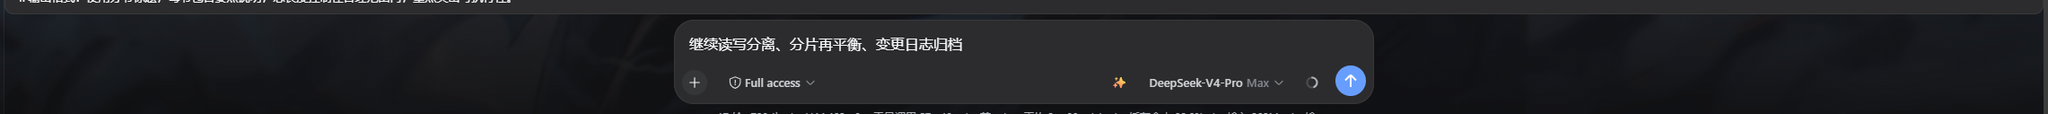
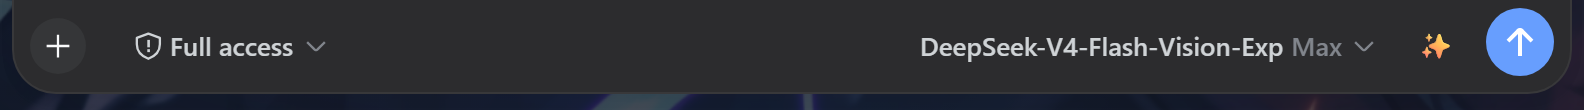
docs: regenerate effect screenshots from the current plugin run
- scripts/demo-shots.mjs: puppeteer-core automation (type draft -> click
  optimize -> capture panel -> apply) against the live GUI
- docs/assets: effect-input-row / effect-panel / optimize-panel-input /
  applied (replaced the earlier session screenshots; removed old assets)
- README + docs/juejin.md updated with the four current screenshots

diff --git a/docs/juejin.md b/docs/juejin.md
@@ -41,16 +41,16 @@
 
 ![面板与输入栏全景](assets/optimize-panel-input.png)
 
-**附:错误兜底演示**(模型未返回文本时的可读错误态)
+**图④ 点击「应用」后**(草稿被替换为优化后的提示词)
 
-![错误态演示](assets/error-state-panel.png)
+![应用后效果](assets/applied.png)
 
 **使用说明**:
 
-- 以上均为暗色主题下的**真实界面截图**(非示意图),可直接用于掘金配图;
-- 图①右侧可另加箭头高亮 ✨ 按钮;图②适合作为正文"对比效果"主图;
-- 掘金编辑器支持直接上传本地图片(发布时上传 `docs/assets/` 下文件,替换相对引用即可);
-- ⚠ 图中的草稿文本来自演示会话,含较具体的业务内容("读写分离/分片再平衡/变更日志归档"),对外发布前可将其替换为更通用的示例(如"帮我写一个周报生成工具"),或保留原样由你决定。
+- 以上均为暗色主题下、**当前版本(0.0.1/v10)的真实运行截图**,可直接用于掘金配图;
+- 演示草稿为通用示例「帮我写一个周报生成工具」,无业务敏感内容;
+- 图①右侧可另加箭头高亮 ✨ 按钮;图②③④ 建议按「面板 → 全景 → 应用后」顺序连续展示;
+- 掘金编辑器支持直接上传本地图片(上传 `docs/assets/` 下文件后替换相对引用即可)。
 
 ### 核心亮点(为什么值得用)
 

diff --git a/README.md b/README.md
@@ -20,7 +20,11 @@
 
 ![面板与输入栏全景](docs/assets/optimize-panel-input.png)
 
-> 以上为暗色主题真实界面截图(`docs/assets/`);示例草稿文本取自演示会话,你可自行替换为更通用的截图。
+**点击「应用」后**(草稿被替换为优化文本)
+
+![应用后效果](docs/assets/applied.png)
+
+> 以上为当前版本(0.0.1/v10)真实运行截图(`docs/assets/`);演示草稿为通用示例「帮我写一个周报生成工具」。截图可由 `scripts/demo-shots.mjs` 自动重新生成。
 
 ## ✨ 核心亮点
 
@@ -109,7 +113,10 @@ dsh-prompt-optimize-plugin/
 ├── docs/
 │   ├── changelog.md     # 迭代历史(pkg-1 … pkg-10 + npm 发布记录)
 │   ├── juejin.md        # 掘金平台介绍文案
-│   └── douyin-script.md # 抖音短视频脚本
+│   ├── douyin-script.md # 抖音短视频脚本
+│   └── assets/          # 效果展示图(真实运行截图)
+├── scripts/
+│   └── demo-shots.mjs   # 演示截图脚本(puppeteer-core,自动化生成 assets 效果图)
 ├── CONTRIBUTING.md      # 贡献指南
 └── CODE_OF_CONDUCT.md   # 行为准则
 ```
